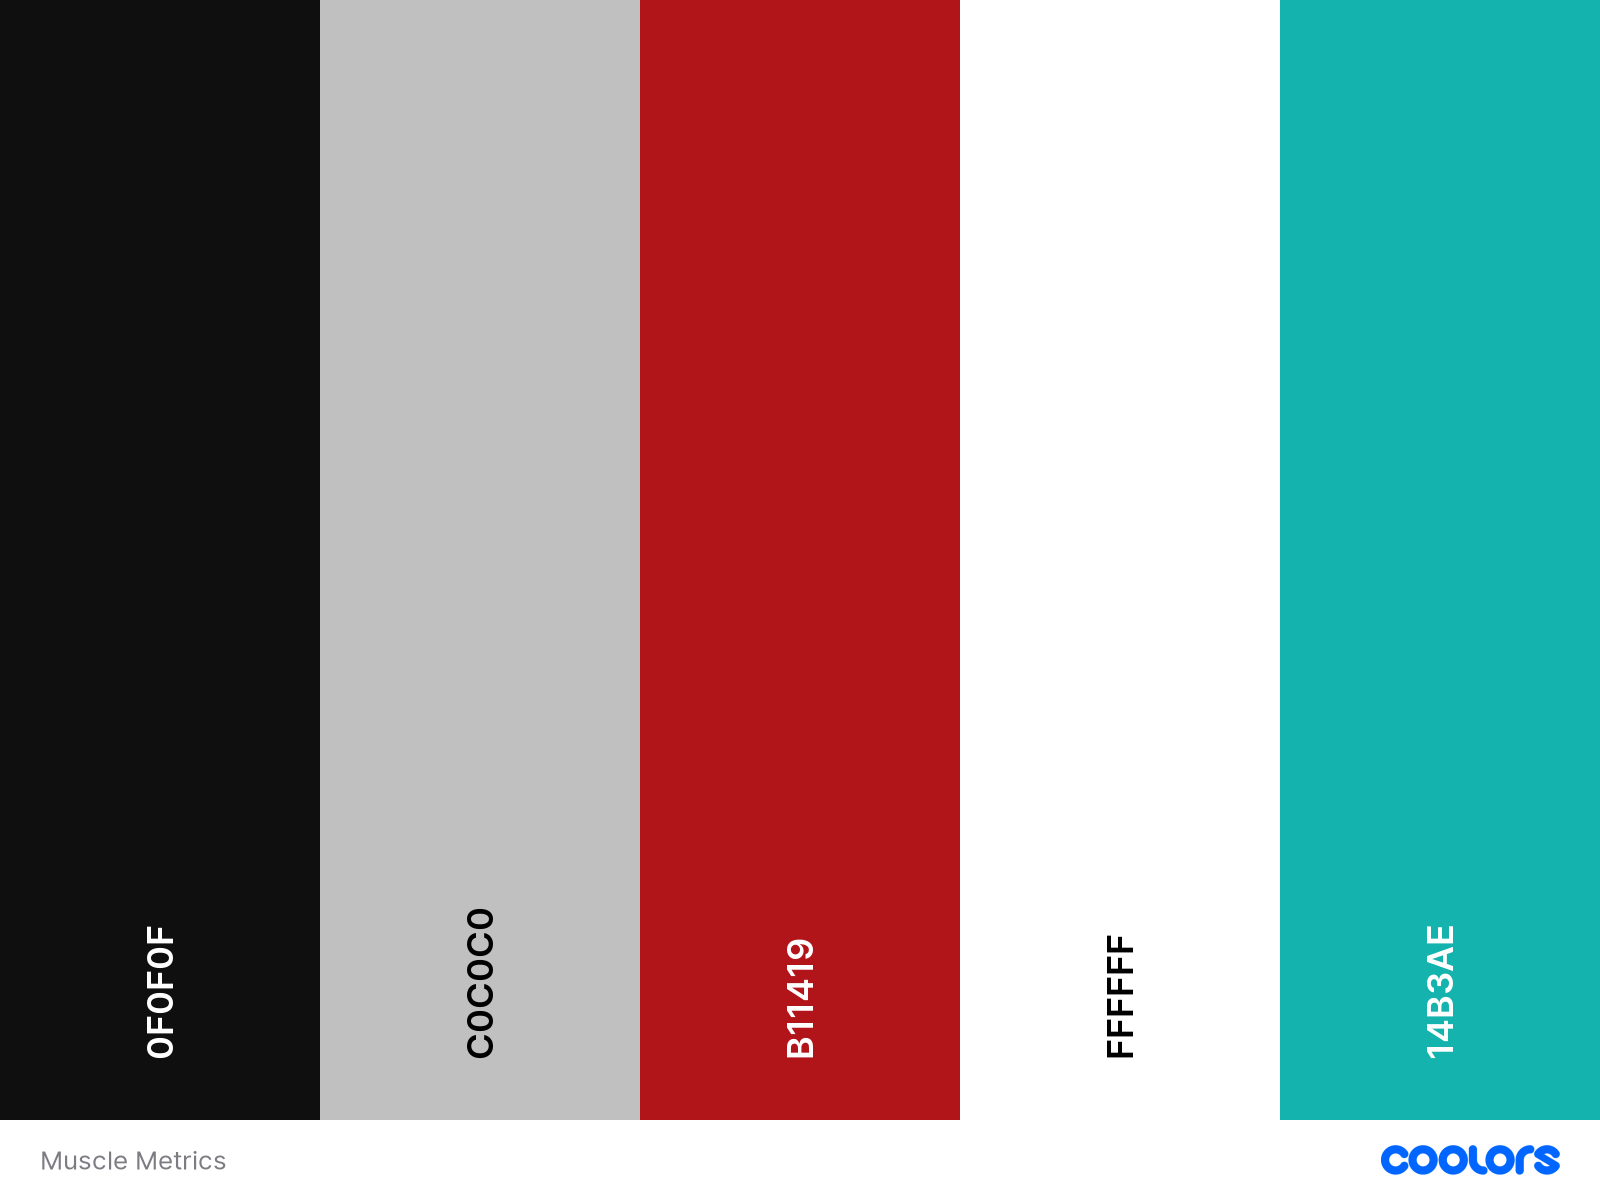
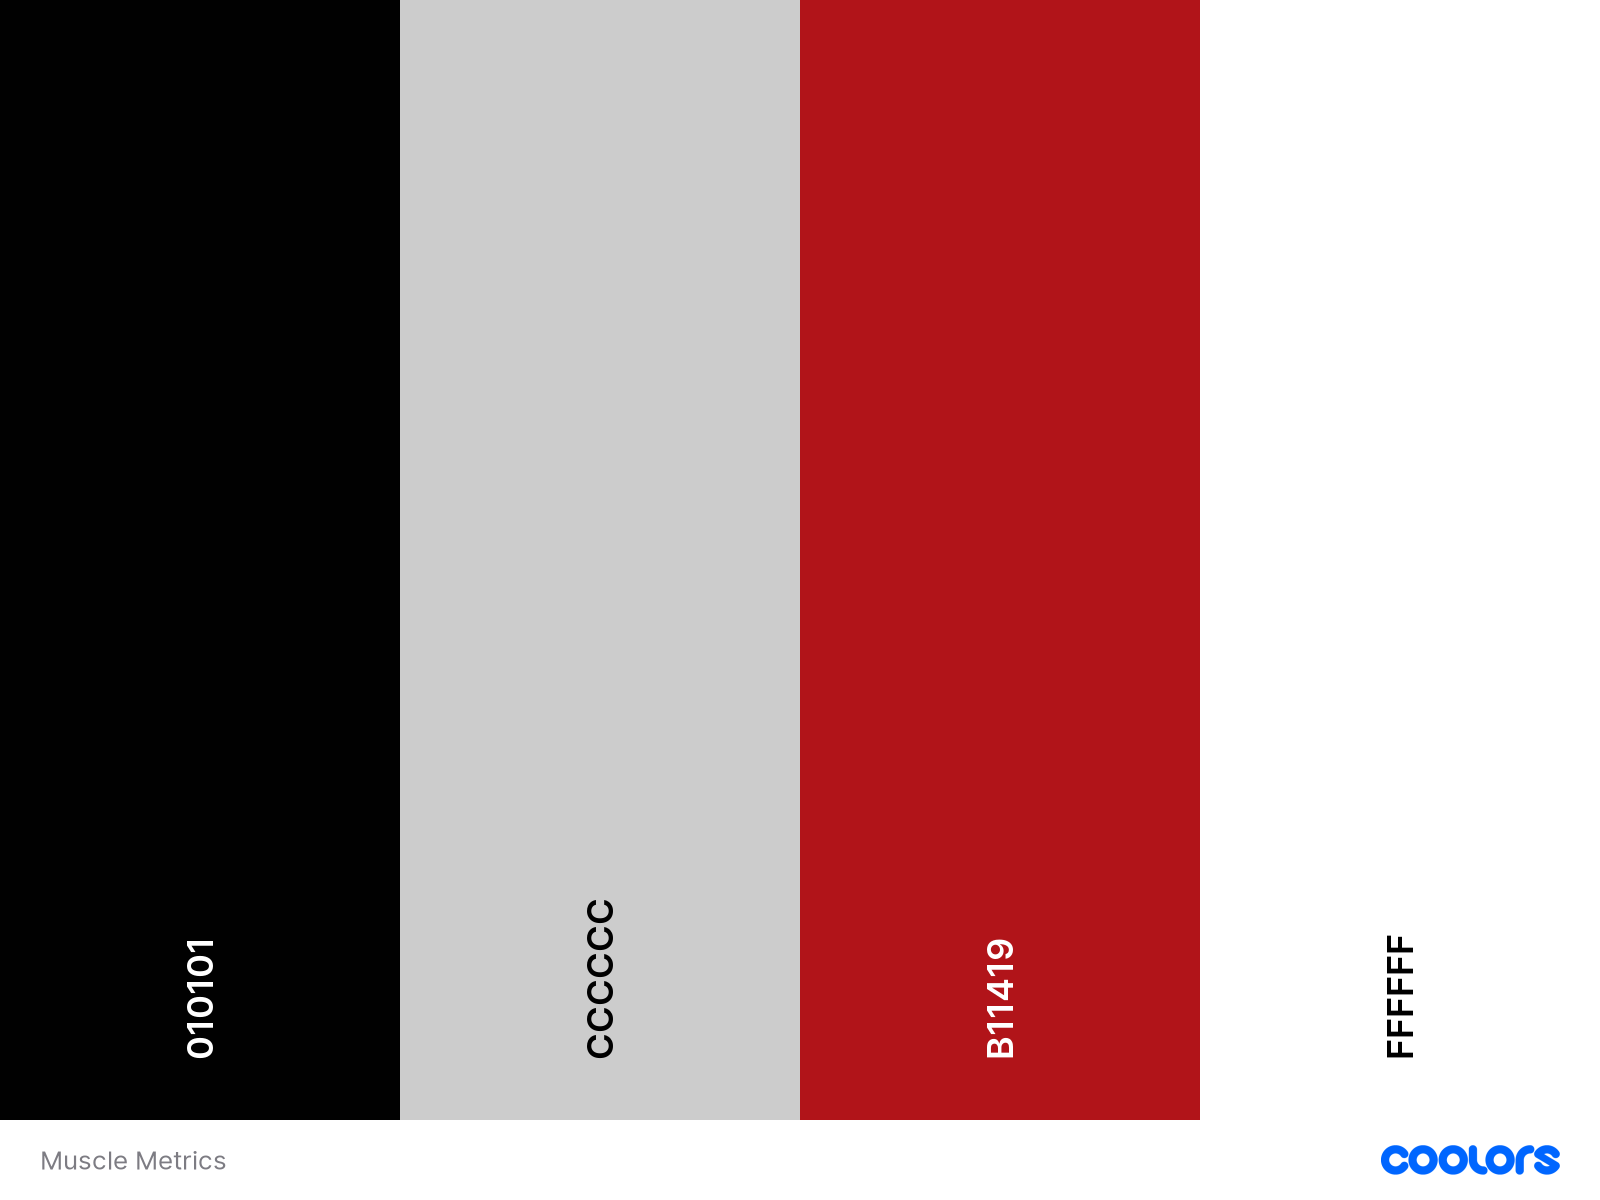
Add CRUD section & feature images

diff --git a/README.md b/README.md
@@ -4,23 +4,52 @@ Welcome to Muscle Metrics, designed with a user-centric philosophy to empower yo
 ![Image](resources/mockup.png)
 ***
 **Contents**
-- [User Stories](#user-stories)
-  - [New User](#as-a-new-user)
-  - [Returning User](#as-a-returning-user)
-  - [Returning User - Future Functionality](#as-a-returning-user---future-functionality)
-- [Features](#features)
-  - [Existing Features](#existing-features)
-  - [Future Features](#future-features)
-- [Wireframes](#wireframes)
-- [Design](#design)
-  - [Overview](#overview)
-  - [Typography](#typography)
-  - [Color Palette](#color-palette)
-  - [Framework](#framework)
-  - [Features and Design Correspondence](#features-and-design-correspondence)
-  - [Usage of Design Elements](#usage-of-design-elements)
-  - [Accessibility](#accessibility)
-  - [Conclusion](#conclusion)
+- [Muscle Metrics](#muscle-metrics)
+  - [User Stories](#user-stories)
+      - [As A New User:](#as-a-new-user)
+      - [As A Returning User:](#as-a-returning-user)
+      - [As A Returning User - Future Functionality:](#as-a-returning-user---future-functionality)
+  - [Features](#features)
+    - [Existing Features:](#existing-features)
+      - [User-Centric Dashboard](#user-centric-dashboard)
+        - [Exercise Chart Visualization  *(See figure 1 below)*](#exercise-chart-visualization--see-figure-1-below)
+      - [Workout Session Management](#workout-session-management)
+        - [Detailed Workout Logs *(See figure 2 below)*](#detailed-workout-logs-see-figure-2-below)
+        - [Exercise Record *(See figure 2 \& 3 below)*](#exercise-record-see-figure-2--3-below)
+      - [Account Management](#account-management)
+        - [Secure Login System *(See figure 4 below)*](#secure-login-system-see-figure-4-below)
+      - [Responsive Design](#responsive-design)
+        - [Mobile-Friendly Interface](#mobile-friendly-interface)
+    - [Future Features:](#future-features)
+      - [Advanced Analytics](#advanced-analytics)
+        - [Predictive Performance Trends](#predictive-performance-trends)
+        - [Muscle Group Analytics](#muscle-group-analytics)
+      - [Social Integration](#social-integration)
+        - [Community Challenges](#community-challenges)
+        - [Workout Partner Matching](#workout-partner-matching)
+      - [Personalization](#personalization)
+        - [Customizable Workout Plans](#customizable-workout-plans)
+        - [Virtual Personal Trainer](#virtual-personal-trainer)
+      - [Health Ecosystem Integration](#health-ecosystem-integration)
+        - [Wearable Device Syncing](#wearable-device-syncing)
+        - [Health App Data Import](#health-app-data-import)
+      - [Motivational Insights](#motivational-insights)
+        - [Achievement Notifications](#achievement-notifications)
+  - [Wireframes](#wireframes)
+  - [Design](#design)
+    - [Overview](#overview)
+    - [Typography](#typography)
+    - [Color Palette](#color-palette)
+    - [Framework](#framework)
+    - [Features and Design](#features-and-design)
+    - [Usage of Design Elements](#usage-of-design-elements)
+    - [Accessibility](#accessibility)
+    - [Conclusion](#conclusion)
+  - [CRUD Functionality](#crud-functionality)
+    - [Overview](#overview-1)
+    - [Sign-Up Process](#sign-up-process)
+    - [Logging and Viewing Exercises](#logging-and-viewing-exercises)
+    - [Conclusion](#conclusion-1)
 
 
 
@@ -54,24 +83,28 @@ Welcome to Muscle Metrics, designed with a user-centric philosophy to empower yo
 This project is designed to provide an informative and useful resource to weight lifters and gym goers.
 ### Existing Features:
 #### User-Centric Dashboard
-##### Personal Best Tracker
-- Record and celebrate your weightlifting milestones with a comprehensive display of your personal records.
-##### Progress Chart Visualization
-- Monitor your strength journey with intuitive charts that reflect your workout history and progression over time.
+##### Exercise Chart Visualization  *(See figure 1 below)* 
+- Monitor your strength journey with intuitive charts that reflect your workout history over time. 
 #### Workout Session Management
-##### Detailed Workout Logs
-- Input the data of every workout: exercises, weights, sets, and reps in an organized and efficient manner.
-##### Exercise Record
-- Full control over your fitness data through Create, Read, Update, and Delete (CRUD) functionalities for your exercise records.
+##### Detailed Workout Logs *(See figure 2 below)*
+- Input the data of every workout: exercises, weights, sets, and reps in an organized and efficient manner. 
+##### Exercise Record *(See figure 2 & 3 below)*
+- Full control over your fitness data through Create, Read, Update, and Delete (CRUD) functionalities for your exercise records. 
 #### Account Management
-##### Secure Login System
-- Access your personal dashboard securely with a dedicated login page, ensuring your fitness data is personal and private.
+##### Secure Login System *(See figure 4 below)*
+- Access your personal dashboard securely with a dedicated login page, ensuring your fitness data is personal and private. 
 #### Responsive Design
 ##### Mobile-Friendly Interface
-- Stay connected to your goals with a design that adapts to your mobile, tablet, or desktop devices for logging workouts on-the-go.
-#### Motivational Insights
-##### Achievement Notifications
-- Get instant gratification with alerts and badges when you hit new achievements or surpass your personal bests.
+- Stay connected to your goals with a design that adapts to your mobile, tablet, or desktop devices for logging workouts on-the-go. *(See Responsiveness section within the testing document)*                                    
+                                                          
+- Figure 1  
+![image](resources/features/charts_feature.PNG)             
+- Figure 2
+![image](resources/features/log_feature.PNG)
+- Figure 3
+![image](resources/features/crud_feature.PNG)
+- Figure 4
+![image](resources/features/login_feature.PNG)
 ### Future Features:
 #### Advanced Analytics
 ##### Predictive Performance Trends
@@ -93,6 +126,9 @@ This project is designed to provide an informative and useful resource to weight
 - Sync with various wearable devices to include heart rate, calories burned, and activity levels for a holistic health view.
 ##### Health App Data Import
 - Import data from other health applications to centralize all fitness and health information on one platform.
+#### Motivational Insights
+##### Achievement Notifications
+- Get instant gratification with alerts and badges when you hit new achievements or surpass your personal bests.
 ***
 ## Wireframes
 [Mobile Homepage](resources/wireframes/mobile_home.PNG)                 
@@ -116,33 +152,55 @@ This project is designed to provide an informative and useful resource to weight
 ***
 ## Design
 ### Overview
-Muscle Metrics offers a sleek, user-focused interface designed for fitness enthusiasts to track their workout progress. The design combines aesthetics with functionality, ensuring an engaging and effective user experience.     
+Muscle Metrics is designed to offer a user-friendly and visually appealing website tailored for fitness enthusiasts to effectively track and manage their workout progress. The design blends modern aesthetics with practical functionality, creating an engaging and efficient user experience.                                                
 ### Typography
 - **Headings**: Oswald, sourced from Google Fonts, gives a modern and strong character to headings, capturing the user's attention and guiding them through different sections.
-- **Text**: Roboto, with sans-serif as the fallback, provides excellent readability for detailed information, ensuring that text is legible across devices and resolutions.       
+- **Text**: Roboto, with sans-serif as the fallback, provides excellent readability for detailed information, ensuring that text is legible across devices and resolutions.                                              
+
+![image](resources/oswald_font.PNG)                   
+![image](resources/roboto_font.PNG)               
 ### Color Palette
-- **Primary Background**: `#0F0F0F` - A deep black for a powerful and elegant backdrop that highlights content.
-- **Secondary Background**: `#C0C0C0` - A light grey for card backgrounds or secondary elements, providing a soft contrast.
-- **Accent Color**: `#B11419` - A strong red to call attention to critical elements like alerts or buttons.
-- **Text Color**: `#FFFFFF` - Pure white for primary content, offering maximum contrast for readability.
-- **Highlight Color**: `#14B3AE` - A vibrant teal for interactive elements, invoking a sense of activity and progress.
+- **Primary Background**: `#010101` - A deep black for a powerful and elegant backdrop that highlights content.
+- **Secondary Background**: `#CCCCCC` - A light grey for card backgrounds or secondary elements, providing a soft contrast.
+- **Accent Colour**: `#B11419` - A strong red to call attention to critical elements like alerts or buttons.
+- **Text Colour**: `#FFFFFF` - Pure white for primary content, offering maximum contrast for readability.
+- **Modal Colour**: `#8BC34A` - A vibrant green for pop up elements, invoking a sense of activity and progress.                                        
+- **Modal Colour**:`#E53935` - A vibrant red for error pop up elements, giving a sense of danger.
 ![Image](resources/colour-palette.png)
 ### Framework
-- **Materialize**: A modern responsive front-end framework based on Material Design principles, enabling me to create a coherent visual and interactive experience.
-### Features and Design Correspondence
-- **User-Centric Dashboard**: A dark-themed dashboard with cards outlined in `#14B3AE` to categorize different sections like Personal Bests and Progress Charts.
-- **Personal Best Tracker**: Highlighted with the accent red `#B11419` to symbolize personal records and achievements.
-- **Progress Chart Visualization**: Interactive charts with a blend of accent colors to differentiate between workout metrics visually.
-- **Workout Session Management**: Neatly organized input forms with Roboto font for clear text entry and Oswald for section headings.
-- **Exercise Record**: CRUD functionalities are represented by intuitive icons and buttons, coloured with `#14B3AE` for recognition and ease of use.
+- **Materialize**: A modern responsive front-end framework based on Material Design principles, enabling me to create a consistent visual and interactive user experience.
+### Features and Design         
+- **User-Centric Dashboard**: A dark-themed dashboard with cards outlined in `#536767` to categorize the different sections.     
+- **Progress Chart Visualization**: Pie and bar charts with a blend of accent colors to differentiate between workout metrics visually.
+- **Workout Session Management**: Organized forms with clear text entry in Roboto and section headings in Oswald.
+- **Exercise Record**: CRUD functionalities are represented by intuitive icons and buttons, coloured with `#B11419` for recognition and ease of use.
 - **Account Management**: A secure login system with input fields and buttons that stand out against the dark background for a focus on security.
 - **Responsive Design**: Adaptable layouts that look and function seamlessly on mobile, tablet, or desktop, ensuring accessibility anywhere.
 ### Usage of Design Elements
-1. **Navigation Bar**: Oswald for the logo and main navigation links, with a hover effect in `#14B3AE`.
+1. **Navigation Bar**: Oswald for the logo and main navigation links in white text, with a background colour of `#B11419`.
 2. **Buttons**: Materialize-styled buttons with shadows and `#B11419` for primary actions.
-3. **Cards**: For sections like Workout Logs, cards with `#C0C0C0` backgrounds to segment the information cleanly.
-4. **Forms**: Input fields with subtle `#C0C0C0` outlines against the `#0F0F0F` background, with placeholder text in Roboto for uniformity.
+3. **Workout Cards**: The workout logs use cards with the Materialize Teal background colour to segment the information cleanly.
+4. **Forms**: Input fields with subtle `#CCCCCC` outlines against the `#FFFFFF` background, with placeholder text in Roboto for uniformity.
+5. **Modals**: Modals create communication with the user. Along with a message the background colour is used to display success `#8BC34A` and error `#E53935`. These also display a dismissal `x` to dismiss the modal once read. A timer has not been used to dismiss the modals as the user can dismiss the modal once it has been read, ensuring enough time for those with accessibility issues. 
 ### Accessibility
-Careful consideration has been given to ensure that the design is not only visually appealing but also accessible to users with different needs, with high contrast and legible font choices.
+High contrast colors and legible font choices ensure the design is accessible to users with various needs.
 ### Conclusion
-The design strategy prioritizes user experience with a focus on functionality, aesthetics, and accessibility, creating an environment that motivates and supports the fitness journey of our users.
+The design strategy prioritizes user experience with a focus on functionality, aesthetics, and accessibility, creating an environment that motivates and supports the fitness journey of our users.                           
+***
+## CRUD Functionality
+### Overview                
+This website incorporates CRUD (Create, Read, Update, Delete) functionality, to enhance user interaction and data management. This functionality is evident and crucial in two key areas of the website: the sign-up process and the management of exercise logs.     
+### Sign-Up Process
+1. **Create:** During registration, users create their account by entering personal information.                 
+2. **Read:** Once registered, users can view their profile information, demonstrating the 'Read' functionality. This step doesn't play a major role during sign-up but is essential in overall user account management.    
+3. **Update and Delete:** Although not directly part of the initial sign-up, the ability to update personal information or delete the account is important to the user experience. These features give users control over their data.                
+### Logging and Viewing Exercises                   
+1. **Create:** Users can log new exercises, adding details such as weight, sets, reps, etc. This process involves creating new records in the user's exercise log.    
+2. **Read:** The dashboard enables users to view their logged exercises, providing an  overview of their workout history and progress.        
+3. **Update:** Users have the flexibility to update their exercise logs. This could include changing the weight, sets, or other details of their workouts.
+4. **Delete:** If necessary, users can delete specific entries in their exercise log through the dashboard, offering control and accuracy in tracking their workout progress.   
+### Conclusion           
+The integration of CRUD functionality in the sign-up process and exercise log management is fundamental for a dynamic and user-friendly experience. It simplifies data management for users and enhances their interaction with the website, giving a tailored fitness tracking experience.          
+***
+
+
